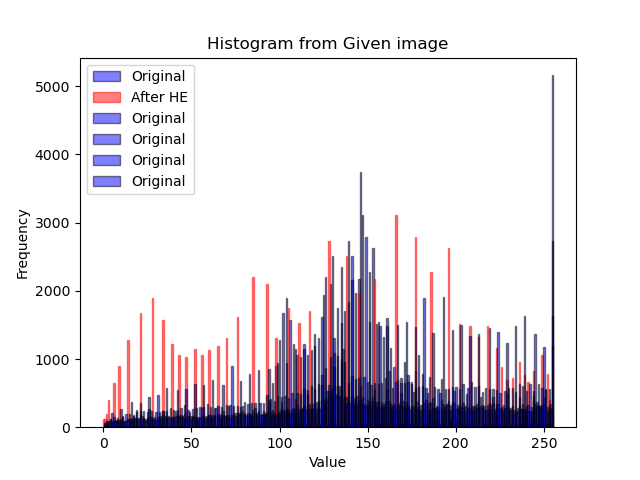
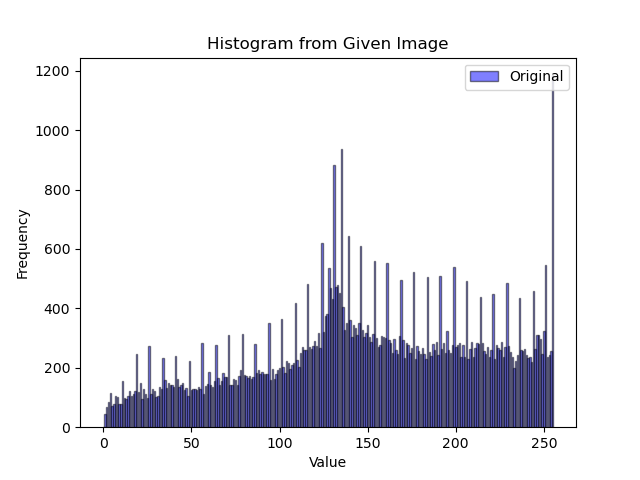
HW2/1105/1709

diff --git a/HW2Histogram_Equalization/HE.py b/HW2Histogram_Equalization/HE.py
@@ -2,8 +2,12 @@ import sys
 import cv2 as cv
 import numpy as np
 import matplotlib.pyplot as plt
+from matplotlib.figure import Figure
 import os
 from concurrent.futures import ThreadPoolExecutor
+import threading
+save_lock = threading.Lock()
+
 output_dir = './HW2Histogram_Equalization/output_images'
 
 def Generate_Histogram(img):
@@ -37,29 +41,33 @@ def Cumulative_Distribution_Func(frequency,num_pixels,local=False):
     return cdf_normalize
 
 def draw_historgram(origin,save=None,after=None):
-    values=[]
-    for i in range(256):
-        values.append(i)
+    fig = Figure()
+    ax = fig.add_subplot(111)
 
-    plt.bar(values, origin, width=0.8, edgecolor='black', color='blue', alpha=0.5, label='Original')
-    if (after != None):
-        plt.bar(values, after, width=0.8, edgecolor='red', color='red', alpha=0.5, label='After HE')
+    # 繪製直方圖
+    values = list(range(256))
+    ax.bar(values, origin, width=0.8, edgecolor='black', color='blue', alpha=0.5, label='Original')
+    if after is not None:
+        ax.bar(values, after, width=0.8, edgecolor='red', color='red', alpha=0.5, label='After HE')
 
-    plt.title('Histogram from Given image')
-    plt.xlabel('Value')
-    plt.ylabel('Frequency')
-    plt.legend()
+    ax.set_title('Histogram from Given Image')
+    ax.set_xlabel('Value')
+    ax.set_ylabel('Frequency')
+    ax.legend(loc="upper right")
 
-    if(save!=None):
-        if not os.path.exists('./HW2Histogram_Equalization/histogram'):
-            os.makedirs('./HW2Histogram_Equalization/histogram')
-        if(save==0):
-            plt.savefig(f'./HW2Histogram_Equalization/histogram/histogram_global.png')
-        if(save>0):
-            plt.savefig(f'./HW2Histogram_Equalization/histogram/histogram_local_{save}.png')
+    if save is not None:
+        with save_lock:
+            histogram_dir = './HW2Histogram_Equalization/histogram'
+            if not os.path.exists(histogram_dir):
+                os.makedirs(histogram_dir)
+            if save == 0:
+                fig.savefig(f'{histogram_dir}/histogram_global.png')
+            else:
+                fig.savefig(f'{histogram_dir}/histogram_local_{save}.png')
     else:
-        plt.show()
+        fig.show()
         
+    plt.close(fig)
 
 
 def Global_HE(img):
